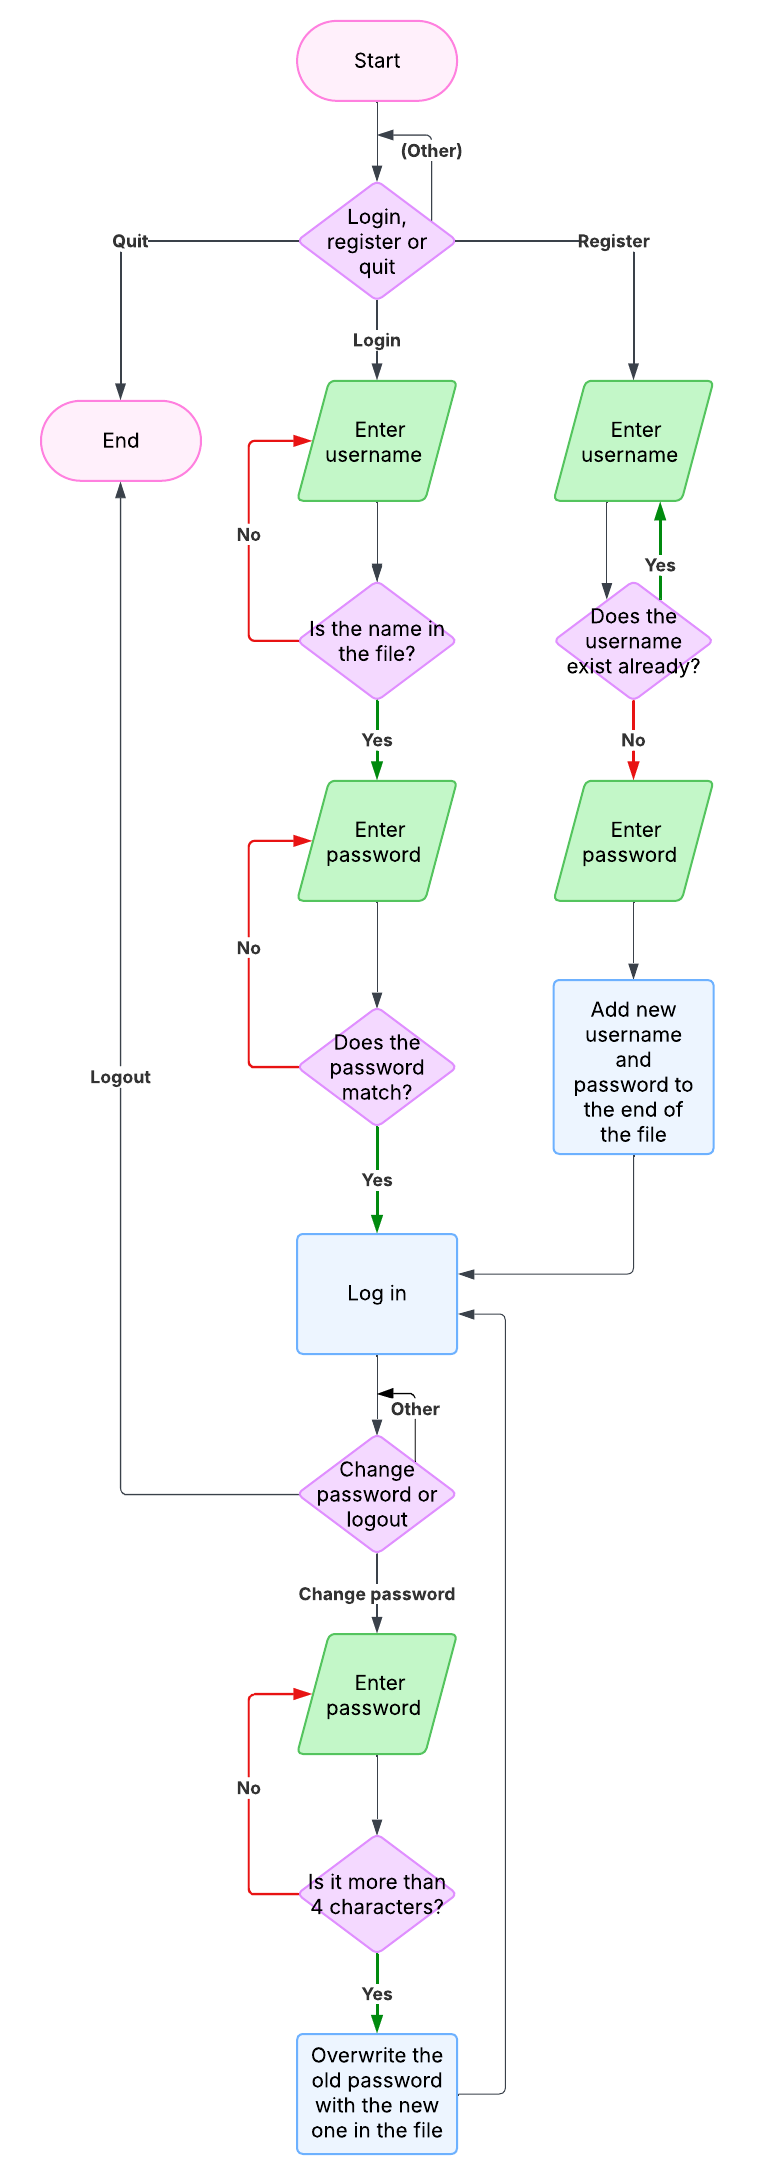
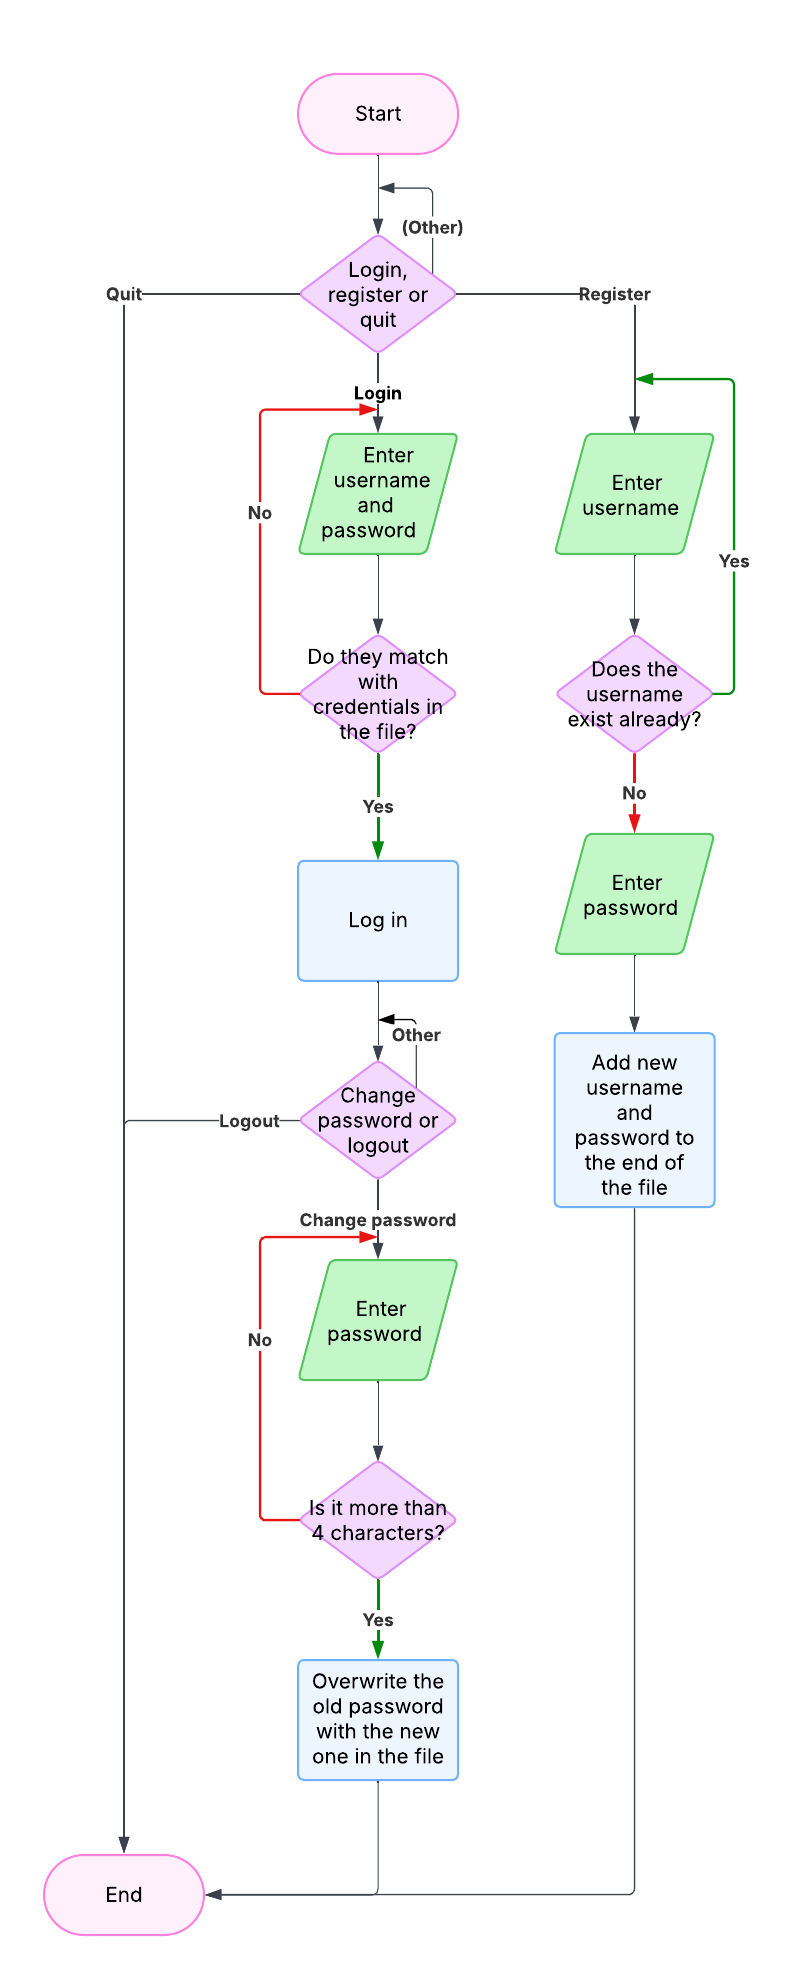
bcrypt added 🤕 and other stuff

diff --git a/main.py b/main.py
@@ -2,28 +2,27 @@ import sys
 import csv
 import bcrypt
 
-salt = b"$2b$12$ieYNkQp8QumgedUo30nuPO"
-
 # checklist:
-# csv
+# ✔ bcrypt (🤥)
 # ✔ error handling (file doesnt exist)
 # ✔ login logic
 # ✔ password change
 # ✔ register edge cases
 
-
-
+file_name = "source.csv" #just so you dont have to type it everywhere
 
 def main():
     # makes file if it doesnt exist
     try:
-        with open("plain_text.txt", "r") as file:
+        with open(file_name, "r") as file:
             pass
     except FileNotFoundError:
-        with open("plain_text.txt", "w") as file:
+        with open(file_name, "w") as file:
             pass
     # it messes up because theres an empty line at the start if you register
 
+    # first menu that asks user to login or register or quit
+    # while loop so if they type something else it asks again
     while True:
         choice = input("Login, Register or Quit? ").casefold()
         match choice:
@@ -42,17 +41,17 @@ def main():
 def login():
     while True:
         username = input("Username: ")
-        password = input("Password: ")
-        with open("plain_text.txt", "r") as file:
-            for line in file:
-                stored_user, stored_pass = line.strip().split(",")
-                if stored_user == username and stored_pass == password:
+        password = input("Password: ").encode("utf-8") #for the bcrypt to work
+        with open(file_name, "r") as file:
+            reader = csv.reader(file)
+            for stored_user, stored_pass in reader:
+                if stored_user == username and bcrypt.checkpw(password, stored_pass.encode("utf-8")):
                     print("Logged in")
                     logged_in(username)
                     return
             print("Wrong username or password")
 
-
+# logged in menu that lets them change password or logout
 def logged_in(username):
     while True:
         choice = input("Change password or logout? ").casefold()
@@ -68,48 +67,56 @@ def logged_in(username):
             case _:
                 continue
 
-
 def register():
+    # check if username is alreadyu taken
     while True:
         taken = False
         username = input("Enter your username: ")
-        with open("plain_text.txt", "r") as file:
-            for line in file:
-                if line.split(",")[0].rstrip() == username:
+        with open(file_name, "r") as file:
+            reader = csv.reader(file)
+            for stored_user, _ in reader:
+                if stored_user == username:
                     print("Username already taken")
                     break
             else:
                 break
 
-    # add it to the end
-    with open("plain_text.txt", "a") as file:
-        while True:
-            password = input("Enter your password (> 4 characters and have a number): ")
-            if len(password) > 4 and any(char.isdigit() for char in password):
-                file.write(f"\n{username},{password}")
-                break
-            else:
-                print("Password must be greater than 4 and have a number")
+    password = get_password()
+    hashed_pass = bcrypt.hashpw(password.encode("utf-8"), bcrypt.gensalt()).decode("utf-8")
+
+    # add credentials to the end of the file
+    with open(file_name, "a", newline="") as file:
+        writer = csv.writer(file)
+        writer.writerow([username, hashed_pass])
+        # jus so you know the file is meant to have a new line at the end
+
+#gets a valid password from the user (>4 characters and number)
+def get_password():
+    while True:
+        password = input("Enter your password (> 4 characters and has a number): ")
+        if len(password) > 4 and any(char.isdigit() for char in password):
+            return password
+        else:
+            print("Password must be greater than 4 characters and contain at least one number")
 
 def change_password(username):
-    while True:
-        password = input("Enter your password (> 4 characters and have a number): ")
-        if len(password) > 4 and any(char.isdigit() for char in password):
-            break
-        else:
-            print("Password must be greater than 4 and have a number")
+    password = get_password()
+    hashed_password = bcrypt.hashpw(password.encode("utf-8"), bcrypt.gensalt()).decode("utf-8")
 
+    # rewrites the whole file but with the password changed
     lines = []
-    with open("plain_text.txt", "r") as file:
-        for line in file:
-            stored_user, stored_pass = line.strip().split(",")
+    with open(file_name, "r") as file:
+        reader = csv.reader(file)
+        for stored_user, stored_pass in reader:
             if stored_user == username:
-                lines.append(f"{username},{password}\n")
+                lines.append([username, hashed_password])
+                # the new line does bad things when its at thte end of the file ❌❌
+                # and i.d.k how to fix that
             else:
-                lines.append(line)
+                lines.append([stored_user, stored_pass])
 
-    with open("plain_text.txt", "w") as file:
-        for line in lines:
-            file.write(line)
+    with open(file_name, "w") as file:
+        writer = csv.writer(file)
+        writer.writerows(lines)
 
 main()
